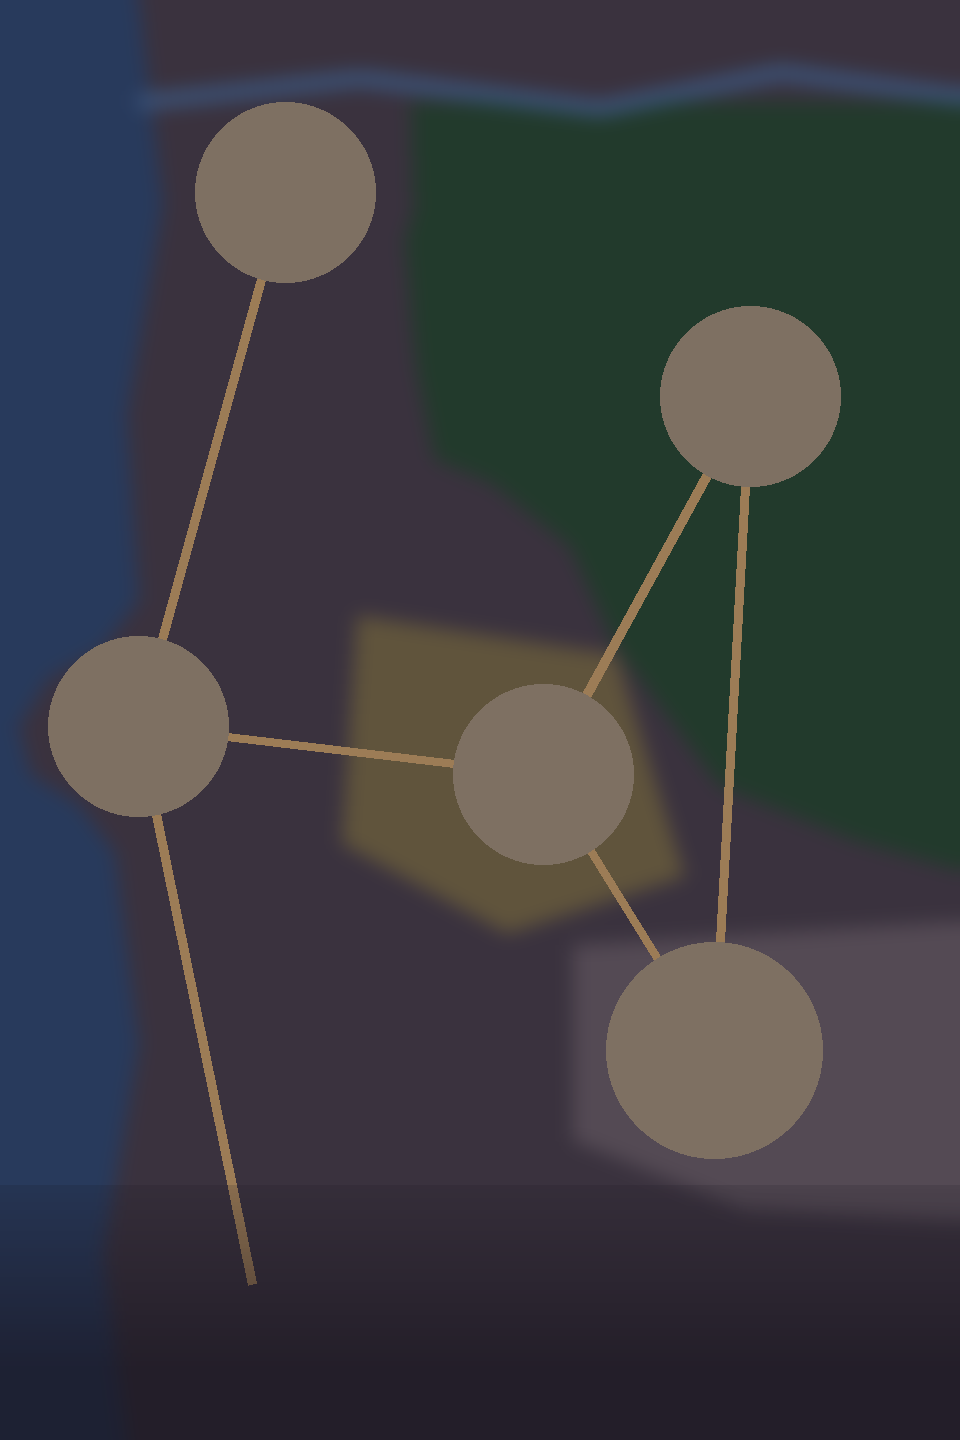
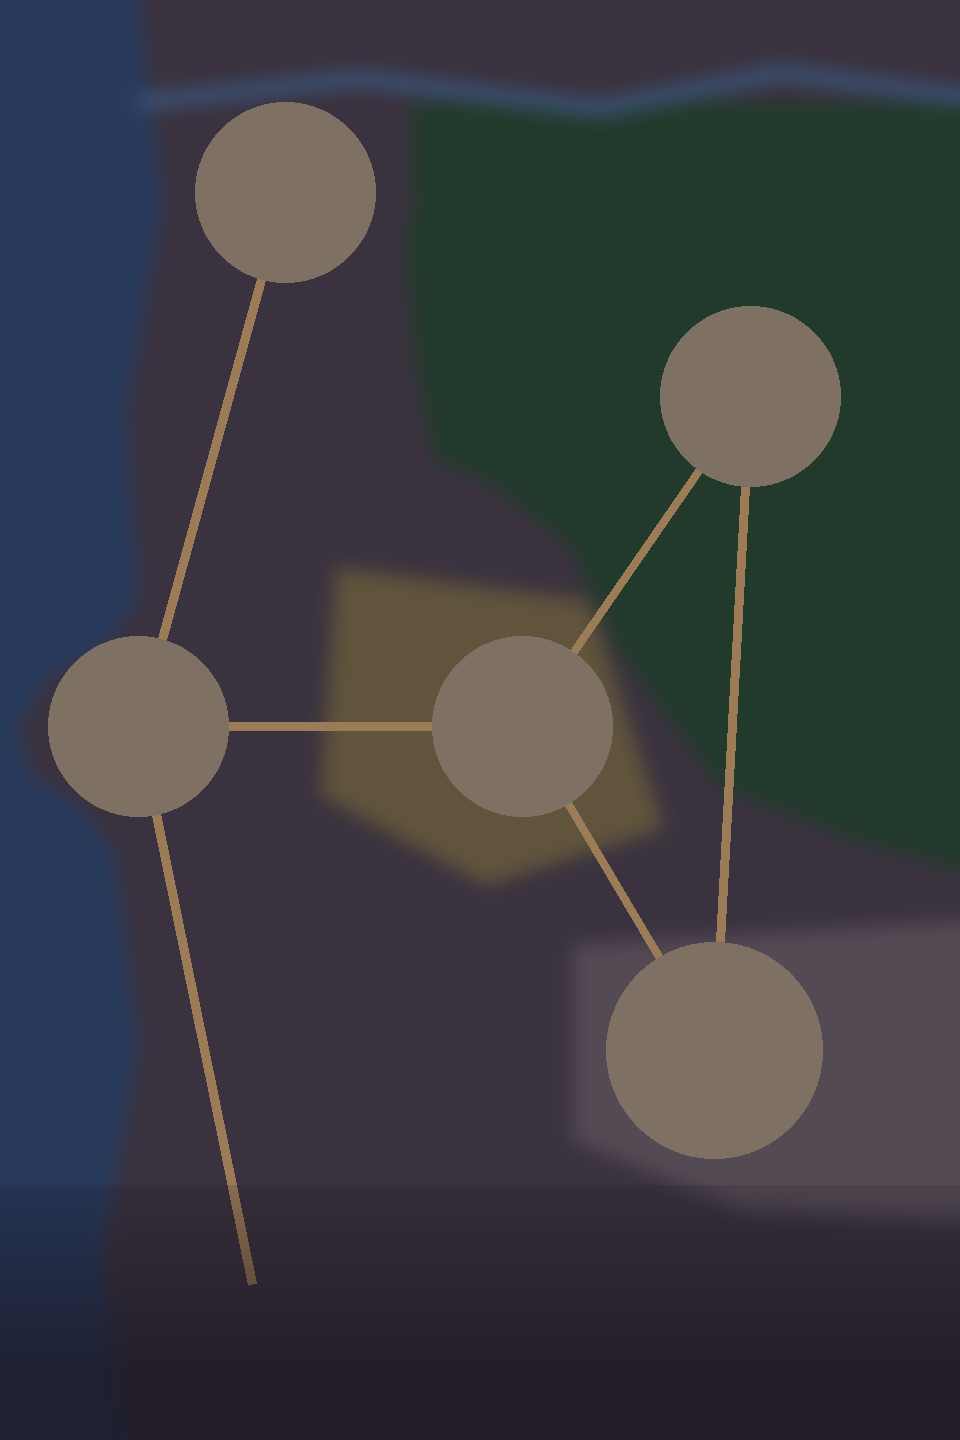
Map: Wheat Valley a little closer to the tower village
Claude-Session: https://claude.ai/code/session_019MjjXLha8yNk8xC45jXx5G

Changed region(s): [[0.2188, 0.3438, 0.7188, 0.6562], [0.7188, 0.3125, 0.75, 0.3438]]

diff --git a/OlaPT/Views/Game/EmpireView.swift b/OlaPT/Views/Game/EmpireView.swift
@@ -8,7 +8,7 @@ enum MapLayout {
     static let height: CGFloat = 480
 
     static let towns: [CGPoint] = [
-        CGPoint(x: 95, y: 64), CGPoint(x: 46, y: 242), CGPoint(x: 181, y: 258),
+        CGPoint(x: 95, y: 64), CGPoint(x: 46, y: 242), CGPoint(x: 174, y: 242),
         CGPoint(x: 250, y: 132), CGPoint(x: 238, y: 350),
     ]
     /// Размер поселения на карте (картинки — втрое подробнее, Tools/game/build_game_assets.py)

diff --git a/Tools/game/make_layout_act1.py b/Tools/game/make_layout_act1.py
@@ -15,7 +15,7 @@ W, H, S = 320, 480, 3
 P = {
     0: (95, 64, 30, "start"),
     1: (46, 242, 30, "vil"),
-    2: (181, 258, 30, "vil"),
+    2: (174, 242, 30, "vil"),
     3: (250, 132, 30, "vil"),
     4: (238, 350, 36, "fort"),
     "S": (84, 428, 30, "south"),
@@ -50,7 +50,7 @@ def base(d):
                    (164, 161), (145, 153), (139, 123), (135, 80), (138, 70)]),
               fill=C["forest"])
     d.polygon(pts([(191, 315), (320, 307), (320, 407), (248, 403), (191, 380)]), fill=C["hills"])
-    d.polygon(pts([(119, 205), (205, 218), (228, 292), (169, 311), (114, 281)]), fill=C["fields"])
+    d.polygon(pts([(112, 189), (196, 200), (221, 276), (162, 295), (107, 265)]), fill=C["fields"])
     d.polygon(pts(COAST), fill=C["sea"])
     # Северная граница — река
     d.line(pts([(46, 34), (120, 26), (200, 36), (260, 24), (320, 32)]), fill=C["river"], width=s(5))
